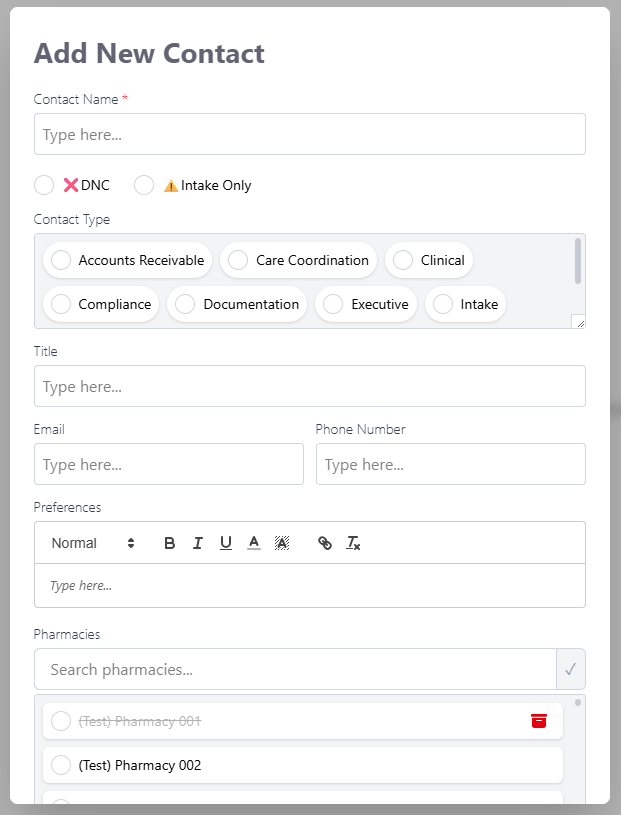
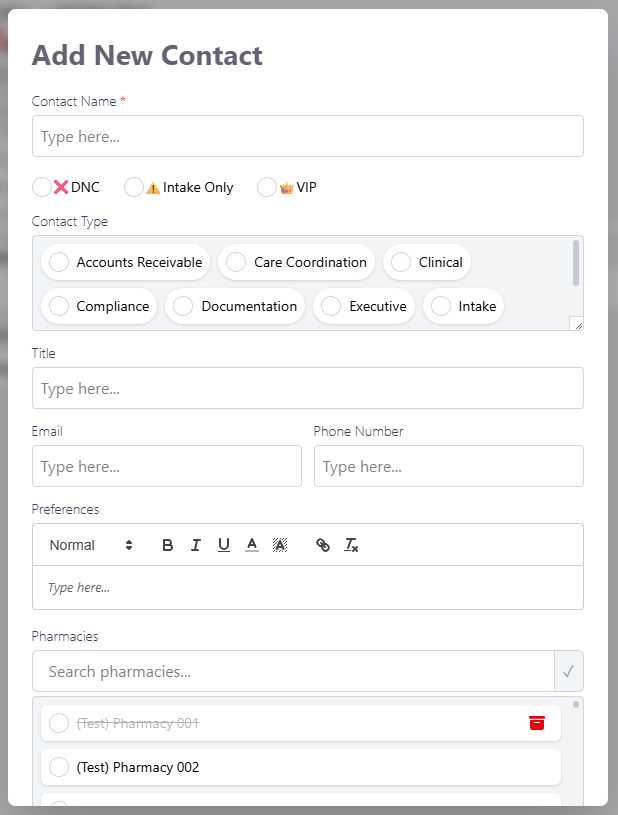
Visual changes, added structure for FEATURES.md

diff --git a/client/src/assets/icons/CrownIcon.jsx b/client/src/assets/icons/CrownIcon.jsx
@@ -8,6 +8,9 @@ const CrownIcon = ({w, h}) => (
 		</defs>
 		{/* !Font Awesome Free 6.7.2 by @fontawesome - https://fontawesome.com License - https://fontawesome.com/license/free Copyright 2025 Fonticons, Inc. */}
 		<path d="M309 106c11.4-7 19-19.7 19-34c0-22.1-17.9-40-40-40s-40 17.9-40 40c0 14.4 7.6 27 19 34L209.7 220.6c-9.1 18.2-32.7 23.4-48.6 10.7L72 160c5-6.7 8-15 8-24c0-22.1-17.9-40-40-40S0 113.9 0 136s17.9 40 40 40c.2 0 .5 0 .7 0L86.4 427.4c5.5 30.4 32 52.6 63 52.6l277.2 0c30.9 0 57.4-22.1 63-52.6L535.3 176c.2 0 .5 0 .7 0c22.1 0 40-17.9 40-40s-17.9-40-40-40s-40 17.9-40 40c0 9 3 17.3 8 24l-89.1 71.3c-15.9 12.7-39.5 7.5-48.6-10.7L309 106z"/>
+		<text x="288" y="425" fontSize="180" textAnchor="middle" fill="#FED59C" className="noselect">
+	    	VIP
+	  	</text>
 	</svg>
 );
 

diff --git a/README.md b/README.md
@@ -34,6 +34,9 @@ A responsive internal web application designed to streamline access to pharmacy 
 - 🛠 **Admin Tools**  
   Custom-built user management interface for assigning and removing roles.
 
+Want a deeper technical look at how these features are implemented?
+📂 **More detailed descriptions of features available in the [`/docs`](./docs) folder.**
+
 ---
 
 ## 🖼 Screenshots
@@ -53,7 +56,7 @@ A responsive internal web application designed to streamline access to pharmacy 
 
 > *Role management panel accessible only to admins, featuring role assignment and deletion.*
 
-> 📂 **More UI previews available in the [`/screenshots`](./docs/screenshots) folder.**
+📂 **More UI previews available in the [`/docs/screenshots`](./docs/screenshots) folder.**
 
 ---
 
